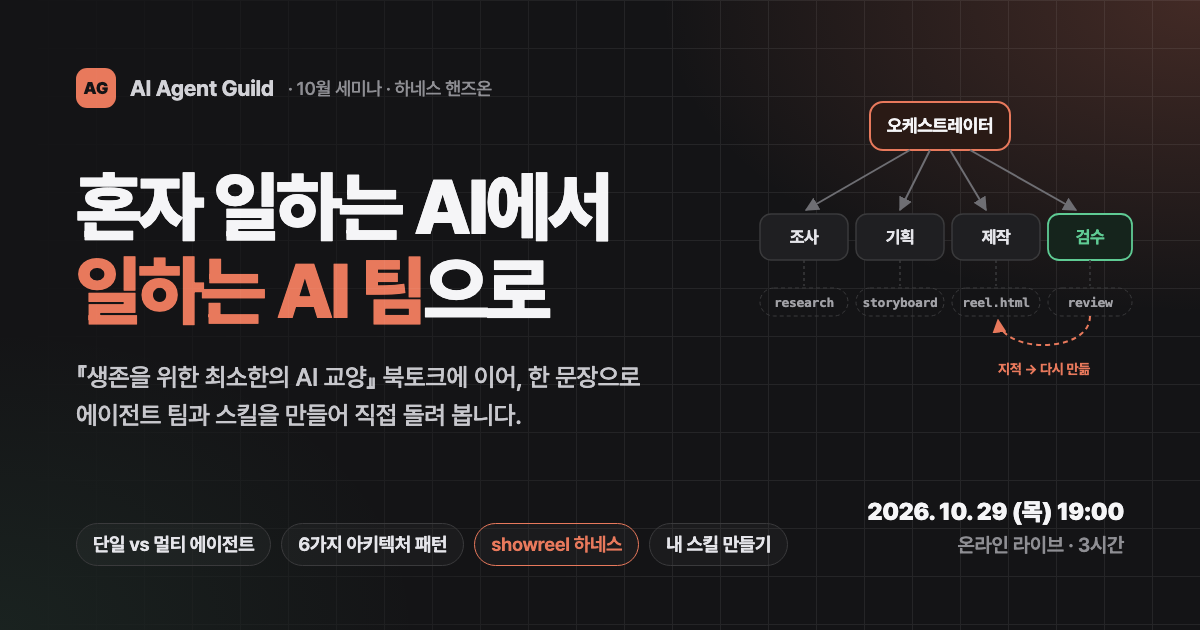
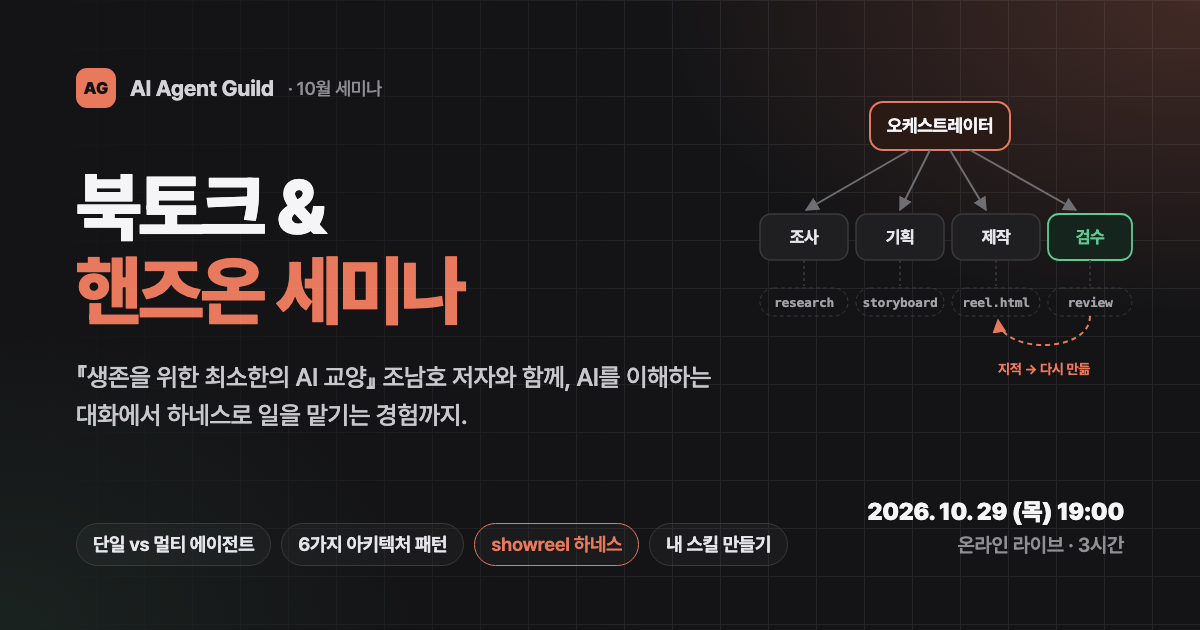
aiguild: 제목을 '북토크 & 핸즈온 세미나'로 + 북토크 소개를 발표자료에 맞춤
- 페이지 제목 · og:title · 상단 이름 · 히어로 · 푸터 · OG 카드를
  처음 교안의 '북토크 & 핸즈온 세미나'로 교체
- Session 1을 저자 발표 「다가오는 AI 시대의 변화를 뛰어넘기」 흐름으로 재작성:
  충격은 제도와 일의 방식을 바꾼다 → 업무 단위의 변화와 Builder →
  모델 경쟁에서 실행 플랫폼 경쟁으로 → 에이전트 운용 능력 6가지 · 인간 판단 지점
- 에이전트 운용 능력 6가지를 오늘 실습의 어디서 연습하는지 대응표로 연결
- 커리큘럼 Session 1 블록(분 배분 · 강사 노트)도 같은 기준으로
- 세션 3(showreel 하네스)은 그대로

Changed region(s): [[0.0617, 0.2714, 0.5242, 0.5127], [0.0617, 0.573, 0.5858, 0.6937], [0.3083, 0.1206, 0.4317, 0.1508]]

diff --git a/public/aiguild/index.html b/public/aiguild/index.html
@@ -3,13 +3,13 @@
 <head>
 <meta charset="utf-8">
 <meta name="viewport" content="width=device-width, initial-scale=1">
-<title>하네스 핸즈온 — AI Agent Guild 10월 세미나</title>
-<meta name="description" content="『생존을 위한 최소한의 AI 교양』 북토크에 이어, 단일·멀티 에이전트와 하네스의 6가지 아키텍처 패턴을 익히고 내가 고른 작품의 showreel 하네스를 직접 만들어 돌리는 핸즈온 교재. 수업 뒤에는 showreel 스킬로 실제 영상까지.">
+<title>북토크 &amp; 핸즈온 세미나 — AI Agent Guild 10월 세미나</title>
+<meta name="description" content="『생존을 위한 최소한의 AI 교양』 조남호 저자와 함께하는 북토크 &amp; 핸즈온 세미나. 북토크에 이어, 단일·멀티 에이전트와 하네스의 6가지 아키텍처 패턴을 익히고 내가 고른 작품의 showreel 하네스를 직접 만들어 돌리는 핸즈온 교재. 수업 뒤에는 showreel 스킬로 실제 영상까지.">
 <link rel="canonical" href="https://namojo.github.io/aiguild/">
 <meta property="og:type" content="website">
 <meta property="og:locale" content="ko_KR">
 <meta property="og:site_name" content="AI Agent Guild">
-<meta property="og:title" content="하네스 핸즈온 — AI Agent Guild 10월 세미나">
+<meta property="og:title" content="북토크 &amp; 핸즈온 세미나 — 『생존을 위한 최소한의 AI 교양』 조남호 저자와 함께">
 <meta property="og:description" content="단일 에이전트와 멀티 에이전트, 하네스의 필요성, 6가지 팀 패턴을 익히고, 내가 고른 책·영화·행사·게임의 showreel 하네스를 만들어 돌려 봅니다.">
 <meta property="og:url" content="https://namojo.github.io/aiguild/">
 <meta property="og:image" content="https://namojo.github.io/aiguild/assets/og.png">
@@ -37,7 +37,7 @@
 
 <header class="topbar">
   <div class="topbar-in">
-    <a class="brand" href="./"><span class="brand-mark">AG</span><span>하네스 핸즈온</span><small>· AI Agent Guild</small></a>
+    <a class="brand" href="./"><span class="brand-mark">AG</span><span>북토크 &amp; 핸즈온</span><small>· AI Agent Guild</small></a>
     <span class="topbar-spacer"></span>
     <div class="progress-wrap">
       <div class="progress-rail" id="progress-bar" role="progressbar" aria-label="실습 진행률" aria-valuemin="0" aria-valuemax="100" aria-valuenow="0">
@@ -56,9 +56,10 @@
     <a href="./" aria-current="page">실습 교재</a>
     <a href="curriculum/">커리큘럼</a>
   </nav>
-  <p class="eyebrow">AI Agent Guild · 2026년 10월 세미나</p>
-  <h1>혼자 일하는 AI에서<br>일하는 AI 팀으로</h1>
-  <p class="lede">북토크에서 AI에 대한 질문을 나눈 뒤, 나머지 실습은 <b>이 페이지 하나</b>로 진행합니다.
+  <p class="eyebrow">AI Agent Guild 10월 세미나 · 『생존을 위한 최소한의 AI 교양』 조남호 저자와 함께하는</p>
+  <h1>북토크 &amp;<br>핸즈온 세미나</h1>
+  <p class="lede"><b>AI를 이해하는 대화에서, 하네스로 일을 맡기는 경험까지.</b><br>
+    북토크에서 AI에 대한 질문을 나눈 뒤, 나머지 실습은 <b>이 페이지 하나</b>로 진행합니다.
     먼저 단일 에이전트와 멀티 에이전트가 무엇이 다른지, 왜 하네스가 필요한지, 팀을 짜는 여섯 가지 모양을 실습 키트로 확인합니다.
     그다음 내가 고른 책·영화·행사·게임을 소개하는 <b>showreel 하네스</b>를 한 문장으로 만들어 돌립니다. 수업이 끝난 뒤에는 같은 기획으로 <b>실제 영상</b>까지 만들 수 있게 따라 하기 안내를 담았습니다.
     코딩은 필요 없습니다. 모든 명령은 복사해서 붙여 넣으면 됩니다.</p>
@@ -237,18 +238,45 @@ if ($userPath -notlike "*$claudePath*") {
   <div class="sec-head">
     <p class="sec-tag">Session 1 · 19:10~19:50 · 40분</p>
     <h2>조남호 저자와 함께하는 북토크</h2>
-    <p class="meta">『생존을 위한 최소한의 AI 교양』을 매개로 나누는 대화</p>
+    <p class="meta">『생존을 위한 최소한의 AI 교양』 — 다가오는 AI 시대의 변화를 뛰어넘기</p>
   </div>
 
-  <p>AI를 ‘쓰는 일’에서 ‘맡기는 일’로 넘어갈 때 무엇이 어려워지는지를 책 이야기로 먼저 꺼냅니다.
-     듣기만 해도 되지만, 아래 질문 중 하나라도 자기 답을 가지고 오시면 뒤의 실습이 훨씬 구체적으로 보입니다.</p>
+  <p>지식 노동의 스푸트니크 쇼크에서 에이전트 시대의 생존 전략까지. 기술이 도구에서 <b>충격</b>이 되는 순간 무엇이 바뀌는지,
+     그 변화 앞에서 개인과 조직은 무엇을 준비해야 하는지 저자와 이야기합니다.</p>
+  <div class="note">
+    <span class="note-title">“모르면 당한다. 알면 부린다. 이제는 함께 실행한다.”</span>
+    이 문장의 마지막 부분, <b>함께 실행한다</b>를 이어지는 핸즈온에서 직접 해 봅니다.
+  </div>
+
+  <h3>이야기의 흐름</h3>
+  <ul class="pillars">
+    <li><span class="k">1</span><span><b>충격은 제도와 일의 방식을 바꾼다</b><span class="d">1957년 스푸트니크 쇼크는 위성 하나가 아니라 DARPA와 인터넷·GPS로 이어진 시스템의 변화였습니다. ChatGPT 쇼크와 에이전트 쇼크도 같은 구조입니다.</span></span></li>
+    <li><span class="k">2</span><span><b>직업이 아니라 업무 단위가 바뀐다</b><span class="d">조사·초안·비교·승인·소통 같은 업무마다 AI가 맡는 부분과 사람이 맡는 부분이 갈리고, 역할이 섞이며 <b>Builder</b>가 등장합니다. 비엔지니어도 만들고, 엔지니어는 더 많이 설계하고 판단합니다.</span></span></li>
+    <li><span class="k">3</span><span><b>모델 경쟁에서 실행 플랫폼 경쟁으로</b><span class="d">기술 확산의 병목은 모델이 아니라 사람·조직·습관입니다. 사람들은 최고의 모델보다 <b>일을 끝내 주는 경험</b>을 고릅니다.</span></span></li>
+    <li><span class="k">4</span><span><b>개인의 생존 전략 — 에이전트 운용 능력</b><span class="d">질문을 잘하는 사람을 넘어 AI와 함께 결과를 만드는 사람이 강해집니다. 그리고 자동화가 깊어질수록 <b>인간의 판단 지점</b>이 성패를 가릅니다.</span></span></li>
+  </ul>
+
+  <h3>북토크에서 핸즈온으로 — 여섯 가지 능력을 오늘 어디서 연습하나</h3>
+  <div class="tablewrap">
+    <table>
+      <thead><tr><th>에이전트 운용 능력</th><th>오늘 실습에서</th></tr></thead>
+      <tbody>
+        <tr><td><b>문제 분해력</b> — 큰 일을 실행 가능한 단위로</td><td>세션 2 · 역할 나누기와 여섯 가지 팀 패턴</td></tr>
+        <tr><td><b>맥락 제공력</b> — 목표·제약·자료를 구조화</td><td>세션 3 · <code>brief.md</code>, <code>CLAUDE.md</code>, 스킬 의뢰서</td></tr>
+        <tr><td><b>병렬 실행력</b> — 여러 에이전트를 동시에</td><td>세션 2 · 팬아웃과 서브에이전트</td></tr>
+        <tr><td><b>검증·테스트 능력</b> — 사실·품질 기준으로 점검</td><td>세션 2·3 · 검증자 분리, 출처 대조, 스킬이 정말 불리는지 시험</td></tr>
+        <tr><td><b>사용자 이해력</b> — 누구에게 어떤 가치인가</td><td>세션 3 · showreel 의뢰서의 ‘보는 사람’과 끝 화면 문구</td></tr>
+        <tr><td><b>책임 있는 결정력</b> — 최종 승인은 사람이</td><td>모든 세션 · 승인 창 3초 점검, 검수표를 읽고 고칠지 정하기</td></tr>
+      </tbody>
+    </table>
+  </div>
 
   <h3>미리 생각해 볼 질문</h3>
   <ul>
-    <li>요즘 AI에게 맡겼다가 <b>결국 내가 손으로 고친 일</b>은 무엇이었나요? 무엇이 모자랐나요?</li>
-    <li>같은 설명을 AI에게 <b>몇 번이나 반복</b>하고 있나요? 그 설명을 어딘가에 적어 둔 적이 있나요?</li>
-    <li>잘 모르는 분야의 문서를 써야 했을 때, AI는 <b>무엇을 빠뜨렸나요?</b></li>
-    <li>AI가 만든 결과를 <b>누가, 무엇을 보고</b> 확인하나요? 만든 쪽이 스스로 확인해도 될까요?</li>
+    <li>내 업무를 조사·초안·검토·승인·소통으로 쪼개면, <b>AI가 맡을 부분과 내가 맡을 부분</b>은 어디서 갈리나요?</li>
+    <li>내가 <b>Builder</b>가 된다면 가장 먼저 만들어 보고 싶은 것은 무엇인가요?</li>
+    <li>여섯 가지 에이전트 운용 능력 중 <b>지금 나에게 가장 모자란 것</b>은 무엇인가요?</li>
+    <li>자동화가 깊어질수록, 내 일에서 <b>끝까지 사람이 판단해야 할 지점</b>은 어디인가요?</li>
   </ul>
 
   <div class="step">
@@ -1508,8 +1536,8 @@ python3 "$env:USERPROFILE\.claude\skills\showreel\scripts\preflight.py"</code></
 </section>
 
 <footer class="foot">
-  <p><b>AI Agent Guild</b> · 2026년 10월 세미나 핸즈온 교재</p>
-  <p>『생존을 위한 최소한의 AI 교양』 조남호 저자와 함께하는 북토크 &amp; 하네스 핸즈온</p>
+  <p><b>AI Agent Guild</b> · 2026년 10월 세미나 실습 교재</p>
+  <p>『생존을 위한 최소한의 AI 교양』 조남호 저자와 함께하는 북토크 &amp; 핸즈온 세미나</p>
   <p>실습 키트의 과업지시서는 나라장터 공개 문서이고, 두 제안서와 에이전트 팀은 실습용으로 만든 것입니다.
      하네스 플러그인과 showreel은 <a href="https://github.com/revfactory" target="_blank" rel="noopener">revfactory</a>의 공개 저장소입니다.</p>
   <p style="margin-top:14px">

diff --git a/public/aiguild/curriculum/index.html b/public/aiguild/curriculum/index.html
@@ -3,13 +3,13 @@
 <head>
 <meta charset="utf-8">
 <meta name="viewport" content="width=device-width, initial-scale=1">
-<title>커리큘럼 — 하네스 핸즈온 · AI Agent Guild</title>
-<meta name="description" content="북토크와 Claude 기반 하네스 핸즈온 3시간 과정의 운영 설계. 단일·멀티 에이전트, 하네스의 필요성, 6가지 아키텍처 패턴, showreel 하네스와 내 스킬 만들기까지 분 단위 배분, 통과 기준, 강사 노트, 정답표.">
+<title>커리큘럼 — 북토크 &amp; 핸즈온 세미나 · AI Agent Guild</title>
+<meta name="description" content="북토크 &amp; 핸즈온 세미나 3시간 과정의 운영 설계. 단일·멀티 에이전트, 하네스의 필요성, 6가지 아키텍처 패턴, showreel 하네스와 내 스킬 만들기까지 분 단위 배분, 통과 기준, 강사 노트, 정답표.">
 <link rel="canonical" href="https://namojo.github.io/aiguild/curriculum/">
 <meta property="og:type" content="website">
 <meta property="og:locale" content="ko_KR">
 <meta property="og:site_name" content="AI Agent Guild">
-<meta property="og:title" content="커리큘럼 — 하네스 핸즈온 · AI Agent Guild">
+<meta property="og:title" content="커리큘럼 — 북토크 &amp; 핸즈온 세미나 · AI Agent Guild">
 <meta property="og:description" content="3시간 과정의 운영 설계. 학습 목표, 분 단위 배분, 통과 기준, 강사 노트, 실습 정답표.">
 <meta property="og:url" content="https://namojo.github.io/aiguild/curriculum/">
 <meta property="og:image" content="https://namojo.github.io/aiguild/assets/og.png">
@@ -28,7 +28,7 @@
 
 <header class="topbar">
   <div class="topbar-in">
-    <a class="brand" href="../"><span class="brand-mark">AG</span><span>하네스 핸즈온</span><small>· AI Agent Guild</small></a>
+    <a class="brand" href="../"><span class="brand-mark">AG</span><span>북토크 &amp; 핸즈온</span><small>· AI Agent Guild</small></a>
     <span class="topbar-spacer"></span>
     <button class="icon-btn" id="theme-toggle" type="button" aria-label="테마 전환">☾</button>
   </div>
@@ -41,7 +41,7 @@
     <a href="../">실습 교재</a>
     <a href="./" aria-current="page">커리큘럼</a>
   </nav>
-  <p class="eyebrow">Curriculum · 운영 설계</p>
+  <p class="eyebrow">Curriculum · 운영 설계 · 북토크 &amp; 핸즈온 세미나</p>
   <h1>북토크에서<br>내 손으로 만든 팀과 스킬까지</h1>
   <p class="lede">3시간 안에 참가자가 <b>단일 에이전트와 멀티 에이전트의 차이를 결과물로 확인하고, 하네스가 왜 필요한지와 팀을 짜는 여섯 가지 모양을 익힌 뒤,
     자기가 고른 작품의 showreel 하네스로 HTML 릴을 뽑고, 내 업무에 필요한 스킬 하나를 만들어 가는</b> 것을 목표로 짰습니다.
@@ -102,7 +102,7 @@
   <p>세 세션은 <b>문제 → 원리 → 제작(팀 · 스킬) → 확장</b>으로 이어집니다.</p>
 
   <ul class="pillars">
-    <li><span class="k">1</span><span><b>북토크 — 문제에 이름 붙이기</b><span class="d">AI를 쓰는 일에서 맡기는 일로 넘어갈 때 무엇이 어려워지는지 말로 갖습니다. 실습은 없고, showreel로 소개할 작품 하나를 정해 둡니다.</span></span></li>
+    <li><span class="k">1</span><span><b>북토크 — 변화에 이름 붙이기</b><span class="d">「다가오는 AI 시대의 변화를 뛰어넘기」. 기술이 충격이 되는 구조, 업무 단위의 변화와 Builder, 에이전트 운용 능력 6가지를 말로 갖습니다. 실습은 없고, showreel로 소개할 작품 하나를 정해 둡니다.</span></span></li>
     <li><span class="k">2</span><span><b>대표 실습 — 원리를 결과물로 확인하기</b><span class="d">단일 vs 멀티 에이전트 개념 → 실습 키트의 제안서 A/B 비교 → 하네스의 네 원리와 필요 없는 경우 → 여섯 가지 패턴. <b>만들기 전에 좋은 것을 먼저 봅니다.</b></span></span></li>
     <li><span class="k">3</span><span><b>showreel 하네스 — 한 문장으로 짓고 돌리기</b><span class="d">세션 2에서 본 구조를 플러그인으로 만들고, 같은 눈(패턴 · 중간 산출물 · 검수 분리)으로 점검하고, HTML 릴을 뽑습니다.</span></span></li>
     <li><span class="k">4</span><span><b>내 스킬 — 팀이 필요 없는 일은 스킬로</b><span class="d">혼자 하는 반복 작업 하나를 스킬로 만들고, 이름을 부르지 않아도 불리는지 시험합니다. 오늘 가져가는 첫 번째 내 자산입니다.</span></span></li>
@@ -171,9 +171,12 @@
   <!-- S1 -->
   <div class="block">
     <div class="block-head"><h3>Session 1 · 저자 북토크</h3><span class="when">19:10~19:50 · 40분</span></div>
-    <div class="goal"><b>목표</b>『생존을 위한 최소한의 AI 교양』을 매개로, AI에게 일을 ‘맡길’ 때 생기는 문제에 이름을 붙인다.</div>
+    <div class="goal"><b>목표</b>『생존을 위한 최소한의 AI 교양』과 발표 「다가오는 AI 시대의 변화를 뛰어넘기」로, 에이전트 시대에 개인에게 필요한 능력에 이름을 붙인다.</div>
     <table class="mins"><tbody>
-      <tr><td>30분</td><td>조남호 저자와 책 이야기 — 진행자 질문 중심</td><td>대담</td></tr>
+      <tr><td>8분</td><td>충격은 제도와 일의 방식을 바꾼다 — 스푸트니크 쇼크 · ChatGPT 쇼크 · 에이전트 쇼크</td><td>발표</td></tr>
+      <tr><td>8분</td><td>직업이 아니라 업무 단위가 바뀐다 — 역할이 섞이고 Builder가 등장, AI 격차와 레버리지</td><td>발표</td></tr>
+      <tr><td>7분</td><td>모델 경쟁에서 실행 플랫폼 경쟁으로 — 트랙터 비유, 스케일링 이후, WWDC 2026</td><td>발표</td></tr>
+      <tr><td>7분</td><td>개인의 생존 전략 — 에이전트 운용 능력 6가지 · 인간 판단 지점이 성패를 가른다</td><td>발표</td></tr>
       <tr><td>10분</td><td>독자 질문 · showreel로 소개할 작품 하나와 내 업무의 반복 작업 한 줄 적기</td><td>Q&amp;A</td></tr>
     </tbody></table>
     <h4>통과 기준</h4>
@@ -181,10 +184,12 @@
       <li>참가자 다수가 채팅창에 <b>소개할 작품</b>을 남긴다 (못 고르면 오늘의 책으로)</li>
     </ul>
     <div class="tnote">
-      <span class="note-title">강사 노트 — 다리를 놓는 질문</span>
-      대담 끝 무렵 두 질문을 꼭 꺼내 주세요. <b>“잘 모르는 분야의 문서를 AI에게 맡기면 무엇이 빠질까요?”</b>
-      그리고 <b>“AI가 만든 결과를 만든 AI가 스스로 검토해도 될까요?”</b>
-      앞의 것이 세션 2의 실험 조건이고, 뒤의 것이 세션 2의 결론(검증자 분리)입니다.
+      <span class="note-title">강사 노트 — 다리를 놓는 두 장</span>
+      발표의 마지막 두 장이 핸즈온으로 넘어가는 다리입니다. <b>에이전트 운용 능력 6가지</b>(문제 분해력 · 맥락 제공력 · 병렬 실행력 · 검증·테스트 능력 · 사용자 이해력 · 책임 있는 결정력)는
+      교재 세션 1의 대응표대로 오늘 실습 전체의 지도이고, <b>“인간 판단 지점이 성패를 가른다”</b>는 세션 2의 결론(검증자 분리)과 승인 창 점검으로 이어집니다.
+      Q&amp;A 끝에 “이 여섯 가지를 지금부터 두 시간 동안 하나씩 손으로 해 봅니다”라고 넘기세요.
+      <br><br>
+      시간이 밀리면 3번(실행 플랫폼 경쟁)을 줄이고, 4번은 줄이지 않습니다.
     </div>
   </div>
 
@@ -482,7 +487,7 @@
 
 <footer class="foot">
   <p><b>AI Agent Guild</b> · 2026년 10월 세미나 운영 설계</p>
-  <p>『생존을 위한 최소한의 AI 교양』 조남호 저자와 함께하는 북토크 &amp; 하네스 핸즈온</p>
+  <p>『생존을 위한 최소한의 AI 교양』 조남호 저자와 함께하는 북토크 &amp; 핸즈온 세미나</p>
   <p style="margin-top:14px">
     <a href="../">실습 교재로 이동</a> ·
     <a href="https://aiagentguild.org/" target="_blank" rel="noopener">길드 홈페이지</a> ·

diff --git a/CLAUDE.md b/CLAUDE.md
@@ -67,3 +67,4 @@
 | 2026-10-21 | **`/aiguild` 커리큘럼 재개편 — 책 제목 정정 + Claude 기반 하네스 실습(harness-edu · revfactory/harness · showreel)으로 교체** | `public/aiguild/index.html`, `public/aiguild/curriculum/index.html`, `public/aiguild/templates/`(tidy 템플릿 5종 삭제, `notes.zip`·`harness-backup.zip` 신규) | 저자 요청: 책 제목은 『생존을 위한 최소한의 AI 교양』(기존 『…AI 상식』은 오기, 사이트·브로슈어 모두 정정). 북토크 이후를 손으로 파일을 쓰는 tidy 하네스 조립에서 **완성 도구 기반**으로 교체 — Session 2 대표 실습은 harness-edu `harness/`의 단일 프롬프트 vs 에이전트 팀 제안서 A/B 비교(이미 있는 결과물을 읽기만, 당일 재실행 금지), Session 3은 harness 플러그인 "하네스 구성해줘"로 회의록 정리 팀 생성 → 두 번 실행 비교(가상 회의록 3건에 함정 4종: 뒤집힌 결정·담당 없음·모호한 기한·기한 없음, 생성 지연 대비 백업 하네스 제공), 마지막 10분 showreel 강사 시연(라이브 생성 금지). 설치는 Claude Code 네이티브 설치 + 플러그인 2종(harness, document-skills), Harness v2라 실험 플래그 불필요. 운영 설계 페이지에 정답표 추가. 브로슈어 docx도 같은 기준으로 개정. |
 | 2026-10-21 | **`/aiguild` 2차 재개편 — 외부 교재 의존 제거, 모든 실습을 한 페이지 안에서 + showreel 하네스·영상 실습** | `public/aiguild/index.html`, `public/aiguild/curriculum/index.html`, `public/aiguild/assets/{style.css,app.js}`, `public/aiguild/templates/`(`notes.zip`·`harness-backup.zip` 삭제, `proposal-ab.zip`·`reel-backup.zip` 신규) | 저자 교정: 대표 실습이 harness-edu 를 가리키기만 하고 있었음 → harness-edu 를 언급하지 말고 그 내용을 가져와 이 페이지에서 직접 따라 하게 할 것, 북토크를 뺀 모든 실습을 페이지 안에서. **Session 2**: 단일 vs 멀티 에이전트(SVG 도식·컨텍스트/서브에이전트/오케스트레이터·L1~L3) → 실습 키트 `proposal-ab.zip`(harness-edu `harness/` 의 과업지시서·제안서 A/B·요구사항 인벤토리·5인 팀을 그대로 옮기고 README 만 새로 씀)으로 A/B 비교·인벤토리·구성물 → 하네스의 네 원리 + 필요 없는 경우(단계 판정기) → revfactory/harness 6가지 아키텍처 패턴 카드(도식) + 실행 모드 3종 + 패턴 퀴즈 + 키트 팀 판정(파이프라인+작은 팬아웃+생성·검증). **Session 3**: 회의록 실습 폐기 → 참가자가 고른 도서·영화·행사·게임의 showreel. 3-A 페이지 안 의뢰서 생성기로 `brief.md` → “하네스 구성해줘”로 4인 팀(조사·기획·제작·검수) → `/reel-studio brief.md` 로 HTML 모션 릴(`out/reel.html`), 3-B 같은 조사표·장면표를 `/showreel` 에 넘겨 15초 MP4(나레이션·이미지 생성 없이). 전역 showreel 스킬과의 트리거 충돌을 막으려 오케스트레이터 이름을 `reel-studio` 로 고정하고 `/showreel` 명시 호출로 분리. showreel 은 15초도 30~50분이라 21:25 시작·완성은 세미나 뒤 허용으로 설계. **백업 하네스** `reel-backup.zip`: 에이전트 4 + 스킬 2(reel-studio 오케스트레이터, reel-html 도메인 스킬 + 결정적 재생 엔진 템플릿 — `?t=` 탐색·`?clean=1`). 서브에이전트로 오늘의 책을 소재로 전 과정을 돌려 검증(장면 4·15초, 검수 1회차 통과, 출처 없는 사실 0) 후 지적 4건 반영(글자 수 세는 법, 필수 정보 축약 우선순위, 서점 ISBN 페이지의 확실도, `.fit` 클래스). Session 0 에 showreel 설치·preflight 추가(macOS 권장, Windows 실험적), 커리큘럼 페이지도 같은 흐름·정답표(제안서 4지점·패턴 퀴즈·하네스 점검)로 전면 개정. 브로슈어 docx 도 동시 개정. |
 | 2026-10-21 | **`/aiguild` 3차 조정 — Windows 기본, showreel은 소개만, ‘내 스킬 만들기’ 추가, 도식·OG 이미지 정비** | `public/aiguild/index.html`, `public/aiguild/curriculum/index.html`, `public/aiguild/assets/{style.css,app.js,og.png}` | 저자 지시 3건. ① “많은 사용자가 윈도우 PC… 윈도우를 메인으로”: OS 탭 10개 전부 Windows 먼저·기본 선택, 문구도 Windows 기준(Mac은 탭으로). Git은 Windows Claude Code의 Git Bash 때문에 필수로 명시. showreel Windows 경로를 사전 점검해 막힐 곳 셋을 설치 단계에서 해소 — `python3` 이름(설치된 Python 옆에 python3.exe 복사 + 사용자 PATH 앞에 등록, Store 별칭 끄기 안내), `npm.ps1` 실행 정책(`npm.cmd`), 렌더 브라우저(Chrome → 없으면 Edge를 `REEL_CHROME_PATH`로). ② “showreel은 마지막에 소개만, 설치·시연은 하지 말고 수업 이후 따라 하도록”: Session 0에서 showreel 설치 제거(30→15분), 3-C 소개 8분(시연 없음, 네 원리 대응표·데모 영상 링크), 새 절 `#after` 수업 이후 따라 하기 A1 설치 · A2 preflight · A3 `my-reel` 기획으로 15초 MP4. ③ “자신한테 필요한 스킬을 하네스로 만드는 방법이나 ad-edu에서 가져다 써도… 이미지·다이어그램은 세련되게”: 3-B ‘나에게 필요한 스킬 만들기’ 12분(스킬 구조도: description 항상/본문 불릴 때/references 필요할 때, 스킬 vs 에이전트 표, 페이지 안 스킬 의뢰서 생성기 → 하네스에 스킬 하나만 요청, 이름 없이 불리는지 시험, 개인 스킬 폴더로 복사 — Windows `Copy-Item`은 상위 폴더가 없으면 구조가 깨져 New-Item 선행), 6패턴 카드마다 ad-edu 과정 사례(C8 파이프라인 · C3 팬아웃 · C5 전문가 풀 · C4 생성·검증 · C7 감독자 · C6 계층적 위임) 링크. 도식: 공통 그림자 필터·파일 칩·범례 스타일, 신규 3종(하네스 3층 구조 · showreel 팀 파일 흐름 · 스킬 구조), 1200×630 OG 카드(`assets/og.png`, summary_large_image). 시간표 21:00 하네스 30분 → 21:30 내 스킬 12분 → 21:42 showreel 소개 8분. 커리큘럼 페이지(블록·우선순위·수료 판정: HTML 릴 + 이름 없이 불리는 스킬)와 브로슈어 docx도 같은 기준으로 개정. |
+| 2026-10-21 | **`/aiguild` 제목을 ‘북토크 & 핸즈온 세미나’로 + 북토크 소개를 발표자료에 맞춤** | `public/aiguild/index.html`, `public/aiguild/curriculum/index.html`, `public/aiguild/assets/og.png` | 저자 지시: “하네스 핸즈온이라고 하지 말고, 처음 받은 교안의 북토크 & 핸즈온 세미나라는 제목으로”, “북토크 소개하는 부분과 제목만 바꾸고 showreel 만드는 부분은 그대로”. 페이지 제목·og:title·상단 브랜드·히어로(h1 ‘북토크 & 핸즈온 세미나’ + 교안의 부제 ‘AI를 이해하는 대화에서, 하네스로 일을 맡기는 경험까지’)·푸터·OG 카드 교체. Session 1을 저자 발표 「다가오는 AI 시대의 변화를 뛰어넘기」(18장, 대부분 이미지라 PDF로 렌더해 확인) 흐름으로 재작성 — 충격은 제도와 일의 방식을 바꾼다(스푸트니크·ChatGPT·에이전트 쇼크) → 업무 단위의 변화와 Builder → 모델 경쟁에서 실행 플랫폼 경쟁으로 → 에이전트 운용 능력 6가지·인간 판단 지점. 여섯 능력을 오늘 실습 위치에 대응시킨 표를 넣어 핸즈온으로 연결. 커리큘럼 S1 블록(분 배분·강사 노트)과 브로슈어 docx의 카드 01·Session 1 박스도 같은 기준으로. 세션 3(showreel 하네스)은 변경 없음. |
